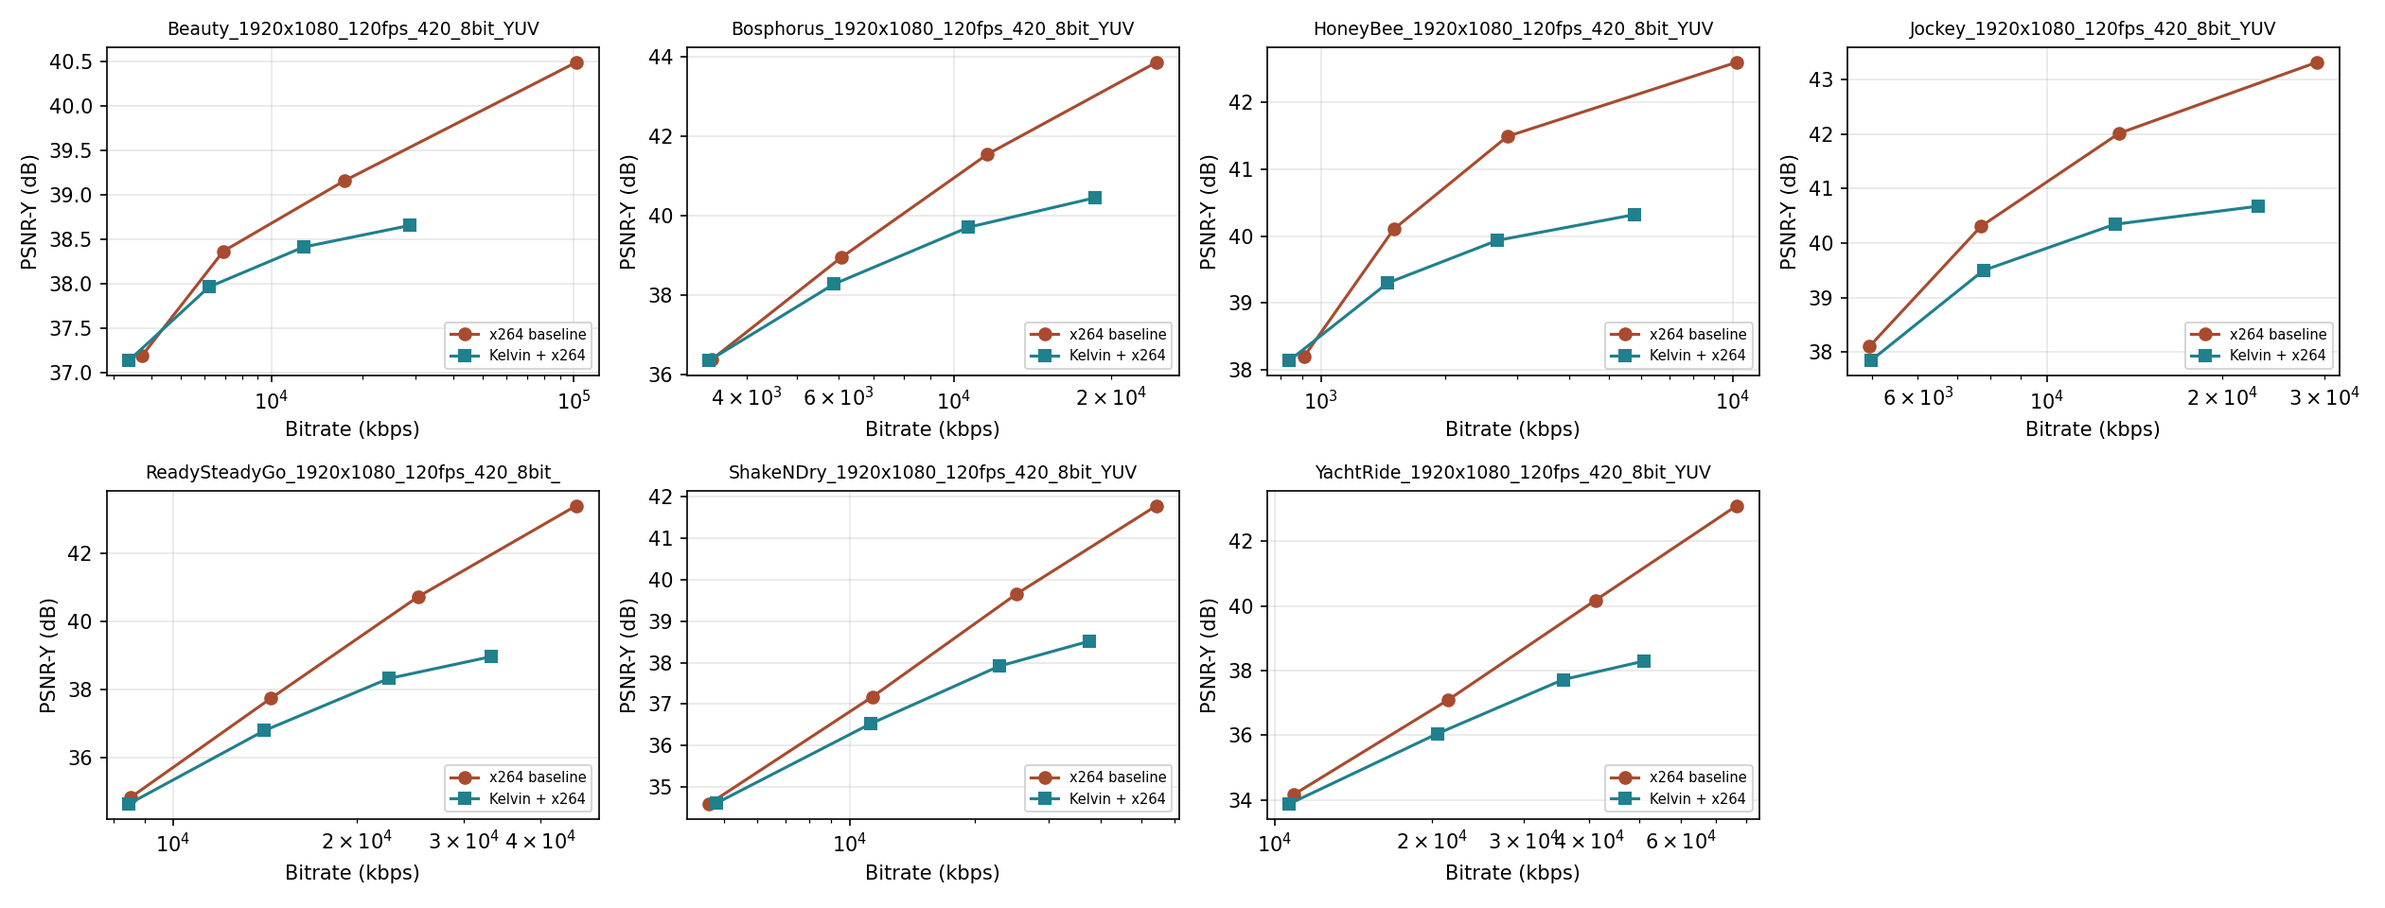
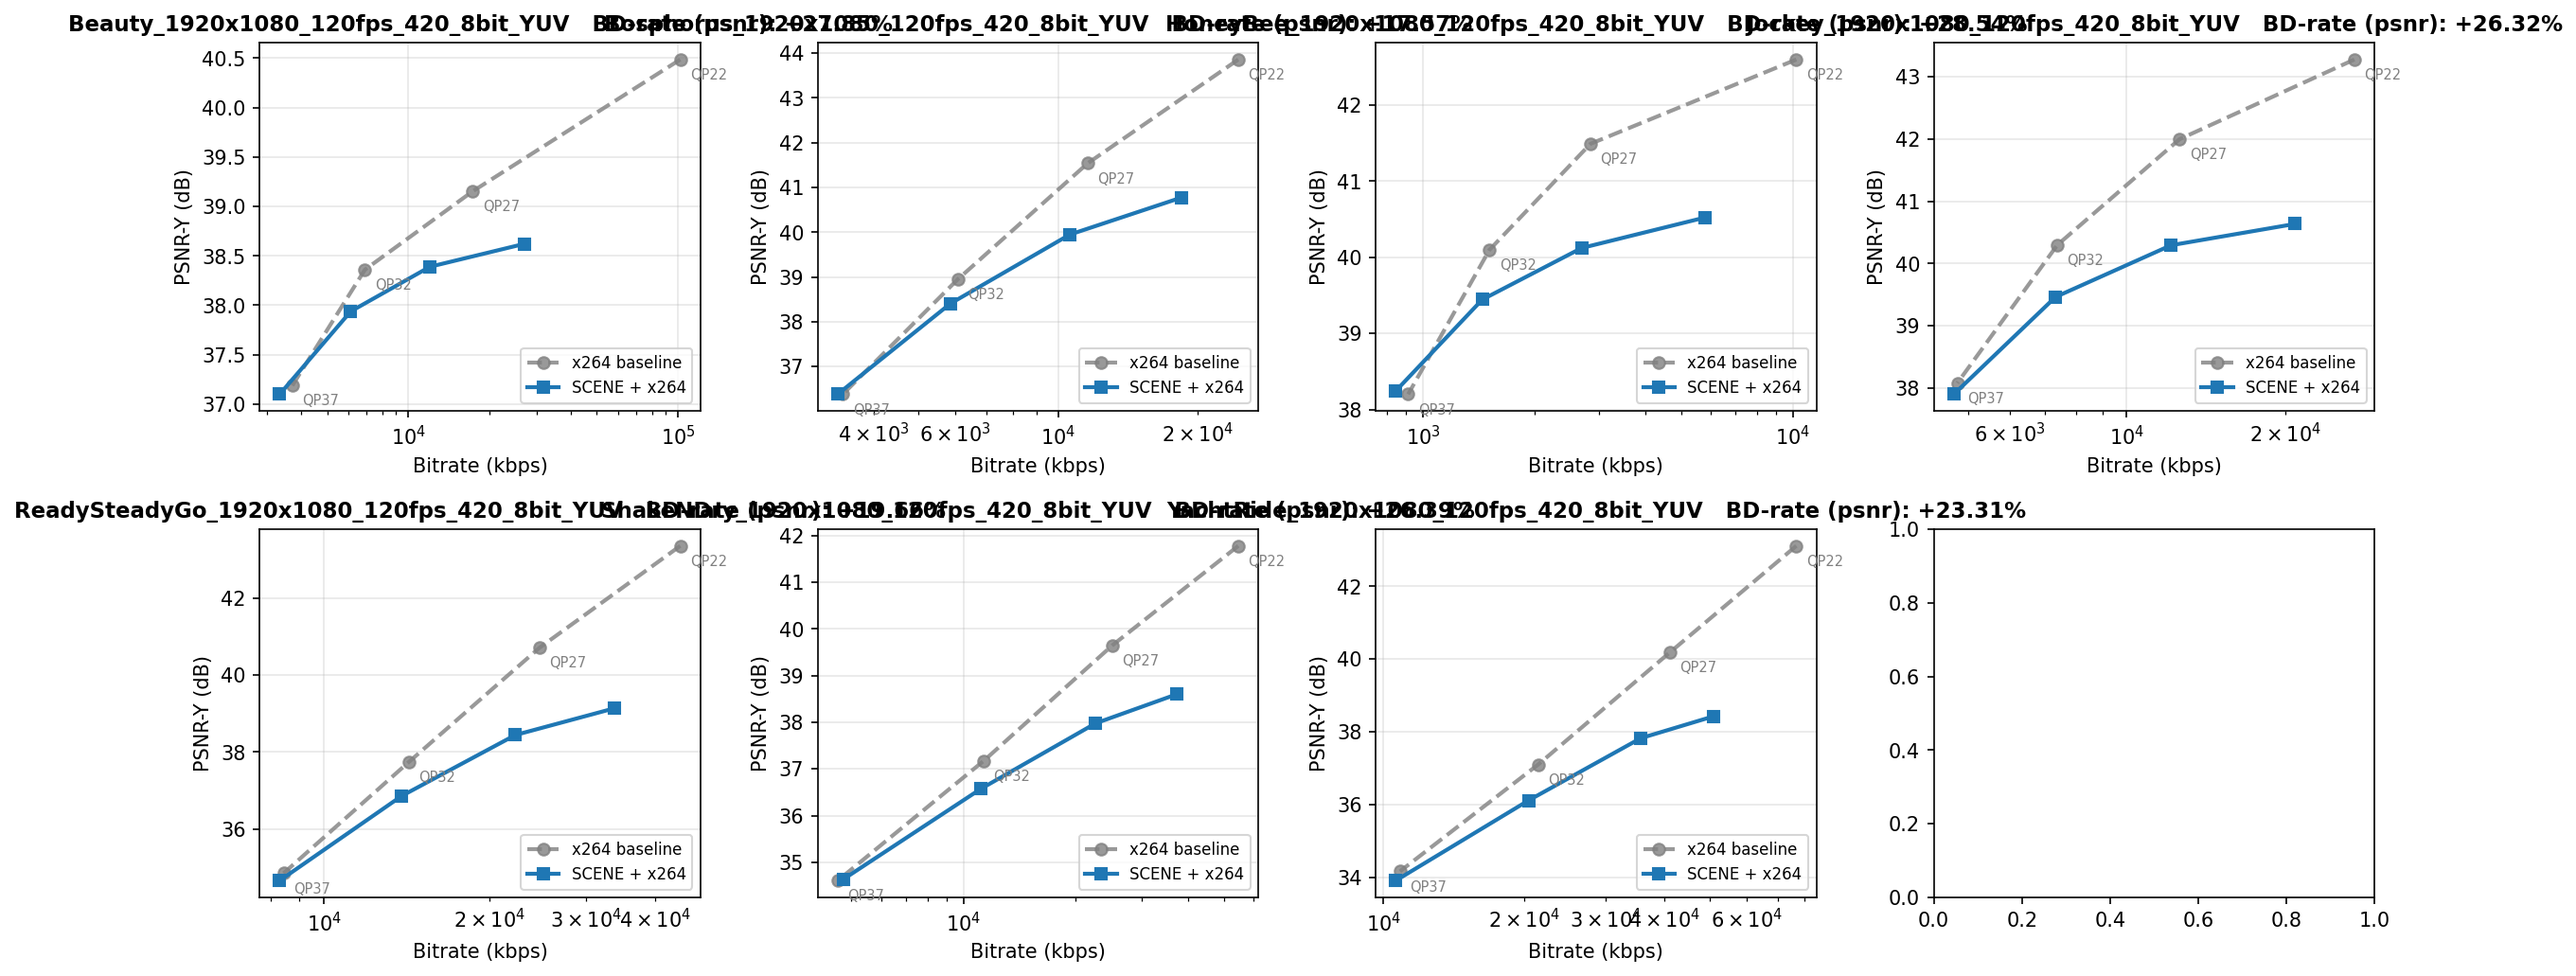
Replace UVG artifacts with v12 production checkpoint
Production EncodeIQ runs checkpoint v12; previous commit pushed v13b_prime
research-checkpoint numbers by mistake. The v12 numbers are slightly stronger
on UVG mean BD-VMAF (-20.57% vs -20.23%) and are what tier-2 customers
actually get from the EncodeIQ API today.

- results/uvg_*.csv regenerated from checkpoints_v12/eval/
- plots/uvg_*.png regenerated from checkpoints_v12/eval/plots/
- README headline numbers + per-sequence table + checkpoint disclosure block

Verified: scripts/bjontegaard.py on uvg_rd_per_qp_vmaf.csv reproduces
the v12 mean -20.57% exactly.

MCL-JCV results (results/mcljcv_summary.csv) were already on v12; unchanged.

diff --git a/README.md b/README.md
@@ -5,6 +5,8 @@ Public, reproducible H.264 R-D benchmark for **Kelvin v1.0** — a neural pre-en
 > **What this repo is:** the measurement harness, configs, raw CSV outputs, plots, and (later) the encoded `.mp4` bitstreams that produced them. Anyone can re-run libvmaf against the published bitstreams and reproduce every number to within rounding.
 >
 > **What this repo is *not*:** the Kelvin encoder itself. Kelvin is closed source. It runs inside the [EncodeIQ](https://www.encodeiq.ai) cloud service (Graziano Labs Corp.). The artifacts here are the *outputs* of running EncodeIQ in **Mode C** (preprocessing-only) on UVG and MCL-JCV, then encoding the preprocessed sequences with stock `libx264`.
+>
+> **Checkpoint:** all numbers below are produced by **Kelvin v1.0 checkpoint v12**, the model currently deployed in production EncodeIQ. Tier-2 customers running the EncodeIQ API today get this same model; the published numbers are what you actually get.
 
 ---
 
@@ -12,7 +14,7 @@ Public, reproducible H.264 R-D benchmark for **Kelvin v1.0** — a neural pre-en
 
 | Dataset                          | n  | BD-VMAF (mean) | BD-VMAF-NEG (mean) | BD-PSNR-Y (mean) |
 | -------------------------------- | :- | -------------: | -----------------: | ---------------: |
-| UVG (1080p)                      | 7  | **−20.23%**    | —                  | **+27.38%**      |
+| UVG (1080p)                      | 7  | **−20.57%**    | —                  | **+24.23%**      |
 | MCL-JCV (full)                   | 30 | **−12.80%**    | +5.21%             | +39.50%          |
 | MCL-JCV (excl. 3 named outliers) | 27 | **−20.50%**    | **−2.01%**         | +35.75%          |
 
@@ -70,16 +72,16 @@ Both are decoded back to YUV and scored against the **original** raw YUV. Identi
 
 | Sequence       | BD-VMAF | BD-PSNR-Y | BD-MS-SSIM |
 | -------------- | ------: | --------: | ---------: |
-| Beauty         |  −26.13% |   +28.87% |     −6.94% |
-| Bosphorus      |  −24.50% |   +22.17% |     +2.83% |
-| HoneyBee       |  −35.83% |   +36.20% |    +11.92% |
-| Jockey         |  −12.26% |   +28.67% |     +3.20% |
-| ReadySteadyGo  |   −8.54% |   +21.25% |     +3.49% |
-| ShakeNDry      |  −20.80% |   +29.28% |     +5.26% |
-| YachtRide      |  −13.58% |   +25.21% |     +3.18% |
-| **mean (n=7)** | **−20.23%** | **+27.38%** | **+3.28%** |
+| Beauty         |  −28.00% |   +27.85% |    −12.65% |
+| Bosphorus      |  −20.87% |   +17.57% |     +2.10% |
+| HoneyBee       |  −32.65% |   +28.54% |     +8.88% |
+| Jockey         |  −18.18% |   +26.32% |     −0.44% |
+| ReadySteadyGo  |   −9.66% |   +19.66% |     +2.95% |
+| ShakeNDry      |  −21.69% |   +26.39% |     +5.13% |
+| YachtRide      |  −12.95% |   +23.31% |     +3.37% |
+| **mean (n=7)** | **−20.57%** | **+24.23%** | **+1.34%** |
 
-7/7 wins on BD-VMAF; 7/7 wins on BD-PSNR-Y. The gain ranges from ~−9% on the highest-motion clip (ReadySteadyGo) to ~−36% on a smooth high-detail clip (HoneyBee).
+7/7 wins on BD-VMAF; 7/7 wins on BD-PSNR-Y. The gain ranges from ~−10% on the highest-motion clip (ReadySteadyGo) to ~−33% on a smooth high-detail clip (HoneyBee).
 
 R-D plots: [`plots/uvg_rd_combined_vmaf.png`](plots/uvg_rd_combined_vmaf.png), per-sequence [`plots/uvg_rd_per_sequence_vmaf.png`](plots/uvg_rd_per_sequence_vmaf.png). PSNR and MS-SSIM variants alongside in `plots/`.
 
@@ -122,7 +124,7 @@ To verify the BD-rate computation reproduces the published mean:
 
 ```
 python scripts/bjontegaard.py results/uvg_rd_per_qp_vmaf.csv
-# prints per-sequence BD-VMAF and mean = -20.23%
+# prints per-sequence BD-VMAF and mean = -20.57%
 ```
 
 **Tier 2 — running Kelvin on your own clips (paid pilot):**
